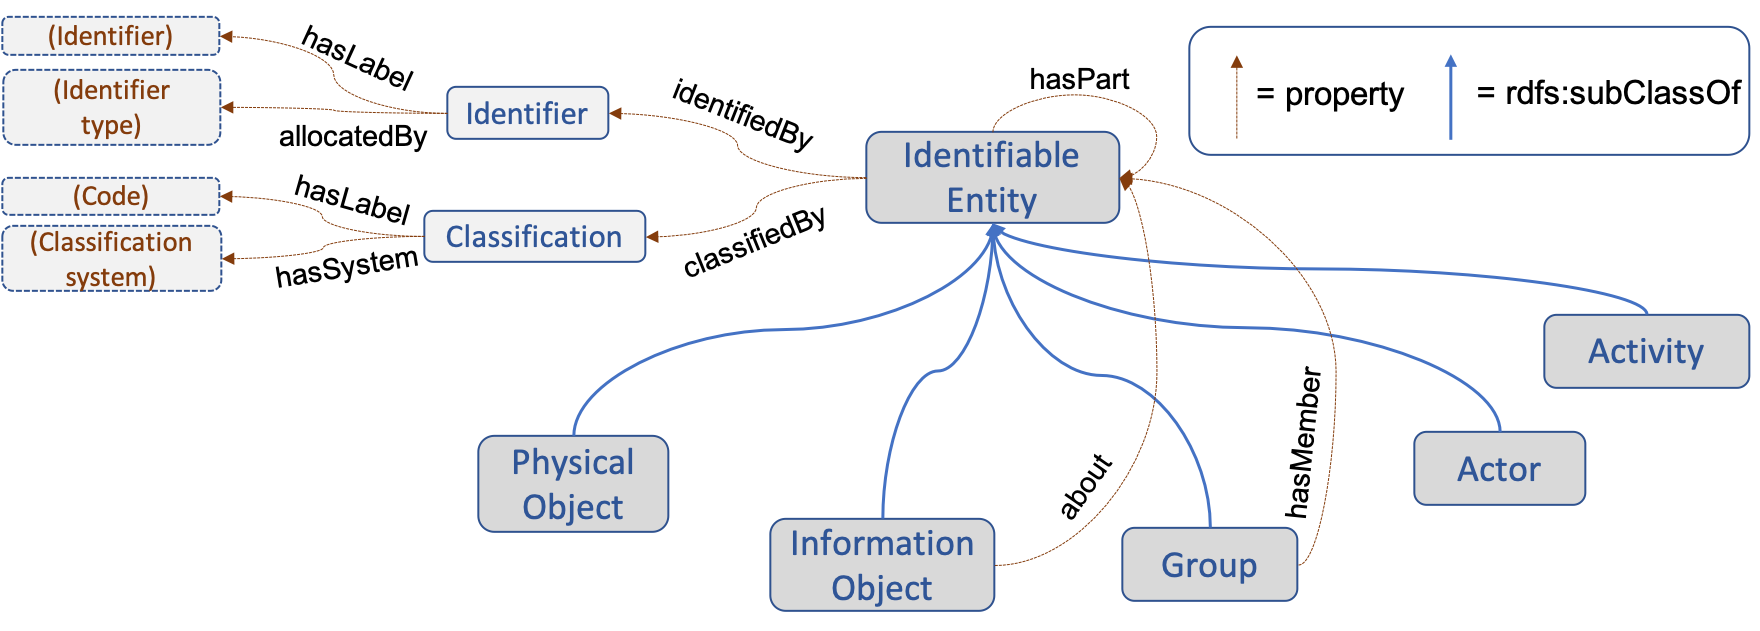
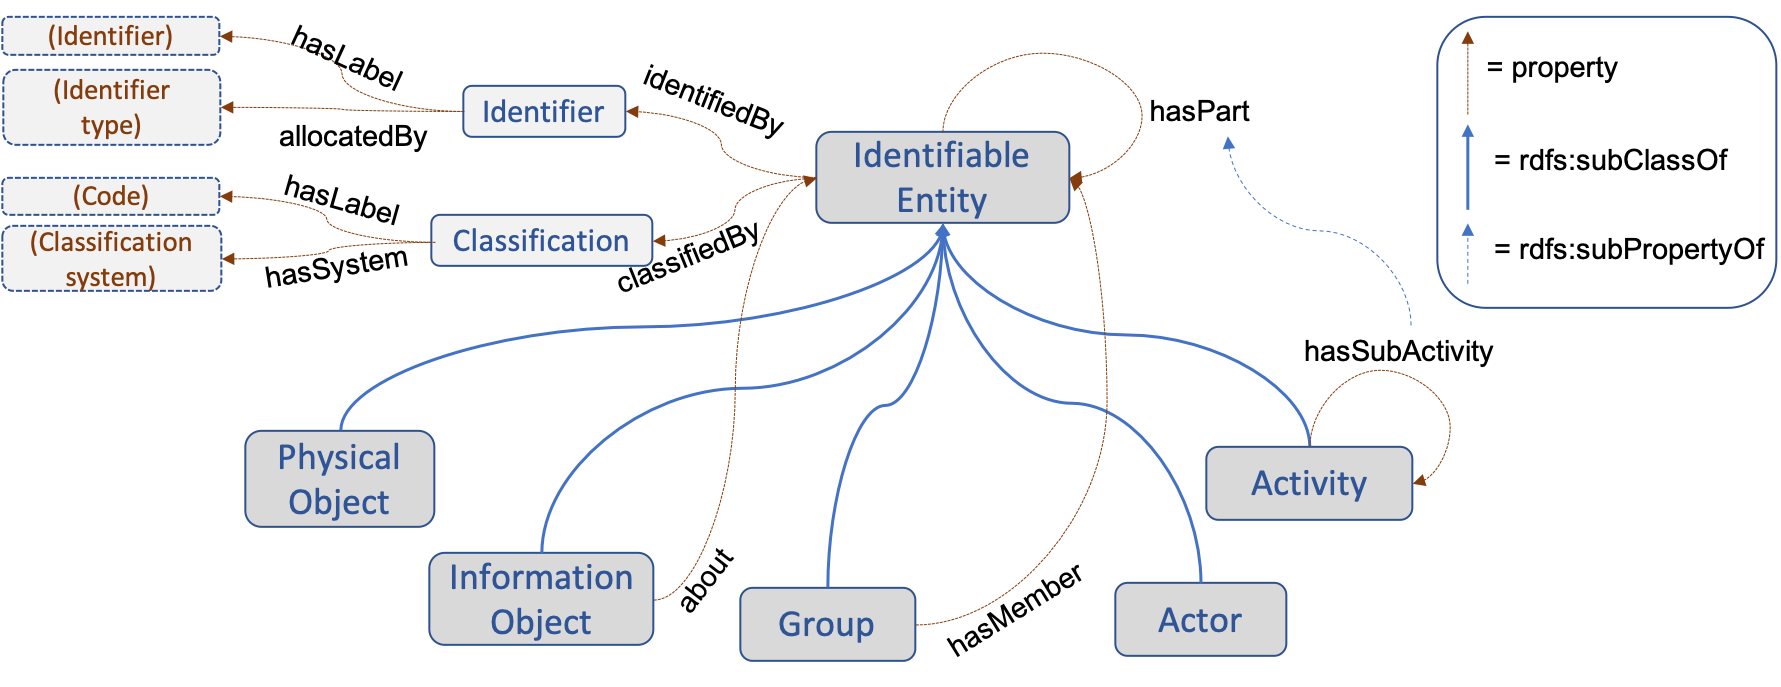
Subactivity and other changes

diff --git a/index.html b/index.html
@@ -11,8 +11,11 @@ table {
   border-collapse: collapse;
 }
 .plain {
-  border: 0px solid black;
+  border: none;
   background: none;
+  margin-left: 0px;
+  padding-left: 0px;
+  text-align: left;  
 }
 table, th, td {
   border: 1px solid black;
@@ -207,7 +210,7 @@ external ontologies (such as BIM models represented in ifcOWL or provenance repr
 	<p>
 	The primary aim in Digital Construction Ontologies is to define the upper-level concepts (such as those shown
 	in boxes on the right) while providing the possibility to create additional ontologies that extend those
-	definition with additional more specific concepts (for instance, concepts like those shown outside of boxes on
+	definitions with additional more specific concepts (for instance, concepts like those shown outside of boxes on
 	the right).  
 	</p>
 	
@@ -219,14 +222,15 @@ external ontologies (such as BIM models represented in ifcOWL or provenance repr
     <tr>
       <td><b>Common properties</b>
 	<p>All identifiable entities can be associated with multiple different <em>identifiers</em> and
-	<em>classifications</em> to facilitate the linking to other common construction information, both at the instance
+	<em>classifications</em> to facilitate the linking to other construction information, both at the instance
 	level and at the category level.</p>
 	
 	<p>In addition, there are some important other relations:</p>
 	<ul>
-	  <li><p>All objects can be decomposed into <em>parts</em>.</p></li>
-	  <li><p>Information objects are <em>about</em> other identifiable objects</p></li>
-	  <li><p>Groups can contain any identifiable objects as their <em>members</em>.</p></li>
+	  <li>All objects can be decomposed into <em>parts</em>.</li>
+	  <li>The parts of activities are called <em>subactivities</em>.</li>
+	  <li>Information objects are <em>about</em> other identifiable objects.</li>
+	  <li>Groups can contain any identifiable objects as their <em>members</em>.</li>
 	</ul>
       </td>
       <td>
@@ -238,17 +242,17 @@ external ontologies (such as BIM models represented in ifcOWL or provenance repr
 	<p>Activities are related to several different kinds of ingredients (often called flows) that have been studied
 	and identified in the field of
 	lean construction. The flows can be classified into transformed objects, material batches, equipment, labor crews, workspaces,
-	information objects, and environmental conditions, and there can be several flows in each of these categories. Activities
+	information objects, and environmental conditions, and each activity can have several flows in each of these categories. Activities
 	require that the relevant ingredients are in a 
-	proper state before the execution (preconditions) or during it (such as resource reservations), and transform
-	the state of some of the ingredients as the result of execution (effects). </p>
+	proper state before the execution (preconditions) or during it (such as resource reservations). Moreover, activities transform
+	the state of some of the ingredients as the result of their execution (effects). </p>
 
 	<p>
 	An essential goal is to be able to link
-	different entities to activities since the interest in construction management is in the progress of activities
-	but a lot of direct observations can be collected from other objects than activities (e.g., sensor data about
-	positions of objects or people, occupancy or locations); the linking will enable the derivation of activity
-	progress data from those observations. </p>
+	different entities to activities since the interest in construction management is in the progress of activity execution
+	but direct observations can mostly be collected from other objects than activities themselves (e.g., sensor data about
+	positions of objects or people, occupancy or locations). A proper linking will enable the derivation of activity
+	execution data from the observations about the linked objects. </p>
 	
       </td>
       <td>
@@ -261,16 +265,16 @@ external ontologies (such as BIM models represented in ifcOWL or provenance repr
 	Different aspects of construction - such as building objects,
 	resources, or activities - can be represented in multiple different contexts and often it is interesting to
 	compare the differences between those contexts. Building-related examples are as-designed and as-built contexts for BIM models,
-	or more comprehensively the contexts for different LODs (levels of detail/development). Activity-related contexts are
+	or more comprehensively the contexts for different LODs (levels of detail/development). Typical activity-related contexts are
 	planned and actual data of project execution. </p>
 
 	<p>
 	Multi-context data is represented using the named graphs of RDF
 	datasets. It is an orthogonal mechanism that allows any objects to be associated with different properties - or
-	even different structures - in different contexts. It should be noted that the multi-context data allows the
-	recording of all differences between planned and executed activities. For instance, in addition to deviations in start and end
-	times, it is possible represent also actual activities that do not appear in the plans at all (so-called improvised
-	activities). 
+	even different structures - in different contexts. If needed the multi-context mechanism allows the
+	recording of all differences between planned and actual activities. In addition to the traditionally recorded
+	planned and actual start and end times of activities, it is also possible represent actual activities that do
+	not appear in the plans at all (so-called improvised activities). 
 	</p>
       </td>
       <td>
@@ -279,16 +283,16 @@ external ontologies (such as BIM models represented in ifcOWL or provenance repr
     </tr>
     <tr>
       <td><b>Variables and constraints</b>
-	<p>Much of the essential information about project management or construction
-	management can be represented in the form of constraints, and a significant periods of time during the project the
+	<p>Much of the essential information in project management or construction
+	management can be represented in the form of <em>constraints</em>, and over significant periods during project execution, the
 	plans can have incomplete information about the exact values of some properties, such as start and end times of
 	tasks, resources assigned to tasks, locations of entities, and so on. To enable the interoperable sharing of
-	such common and crucial information, the ontologies include a possibility to associate a variable to any
+	such crucial and common information, the ontologies include a possibility to associate a variable to any
 	property of an object and to represent constraints between variables. This representation is completely
-	orthogonal and can be used with properties defined in any existing ontologies.
+	orthogonal and can be used to enrich objects and properties defined in any existing ontologies.
 	</p>
 	<p>
-	In the example on the right the properties of an object (shipment1) as defined in the ontology are shown in 
+	In the example on the right the properties of an object (<tt>shipment1</tt>) as defined in the ontology are shown in 
 	blue color. Each of those properties is associated with a variable (in red color). The variables again are
 	associated with constraints (in green color) that limit their possible values. 
 	</p>
@@ -300,7 +304,7 @@ external ontologies (such as BIM models represented in ifcOWL or provenance repr
     <tr>
       <td><b>Integration with the broader Semantic Web</b>
 	<p>Digital Construction ontologies are designed to observe the
-	Linked Data principles, thus enabling the decentralized publication of construction data, essential in
+	Linked Data principles, thus enabling the decentralized publication of construction data, which is essential in
 	construction projects.
 	</p>
 	<p>The ontologies use
@@ -309,7 +313,7 @@ external ontologies (such as BIM models represented in ifcOWL or provenance repr
 	solid and reference relations dashed lines). The Basic Formal Ontology (BFO) is imported as the
 	top-level ontology, the BIM models can be 
 	provided in ifcOWL or BOT, and concepts from other ontologies such as OWL-Time, PROV-O, FOAF, QUDT, SSN/SOSA, and Saref
-	are used as needed.
+	are used as needed. 
 	</p>
 	<p>Further alignment with related efforts such as Industrial Ontology Foundry will be
 	explored. </p>
@@ -365,5 +369,5 @@ external ontologies (such as BIM models represented in ifcOWL or provenance repr
     
 <hr>
 <address></address>
-<!-- hhmts start -->Last modified: Fri Mar  6 15:29:44 EET 2020 <!-- hhmts end -->
+<!-- hhmts start -->Last modified: Fri Mar  6 17:02:26 EET 2020 <!-- hhmts end -->
 </body> </html>
